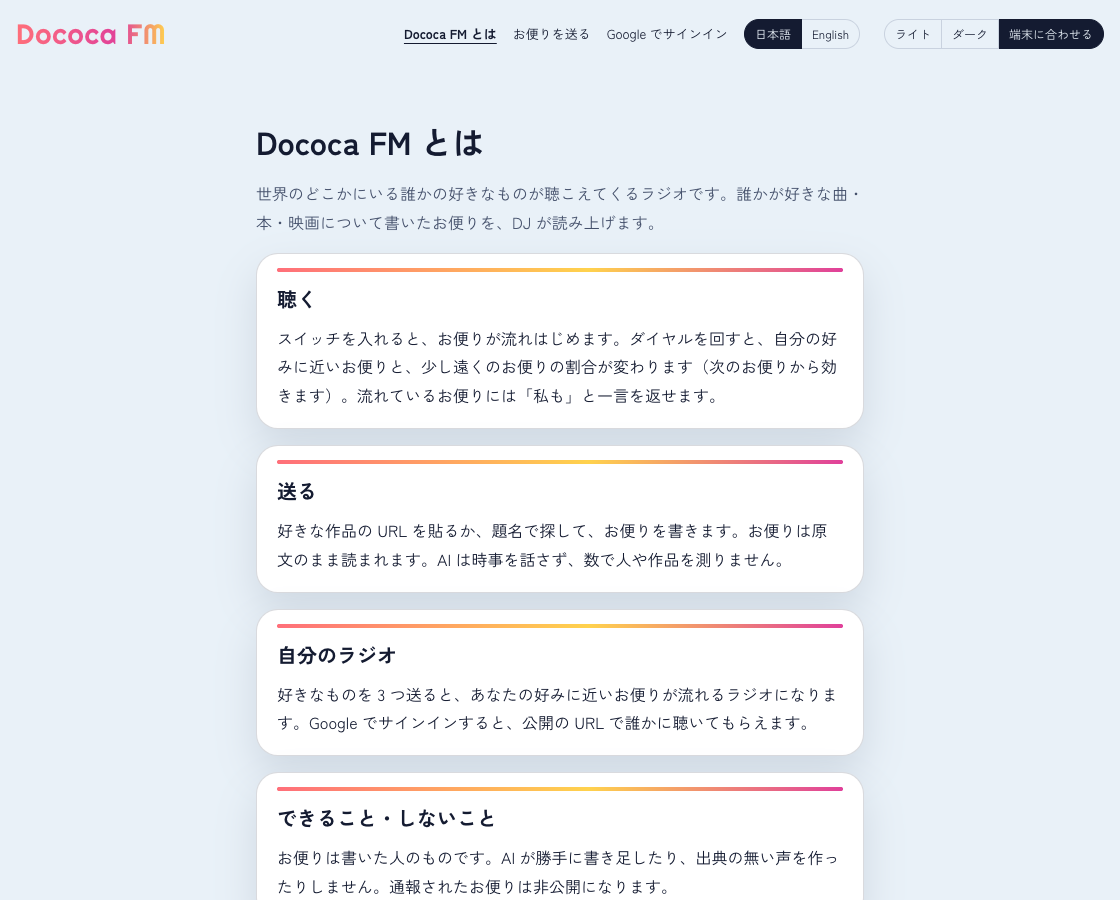
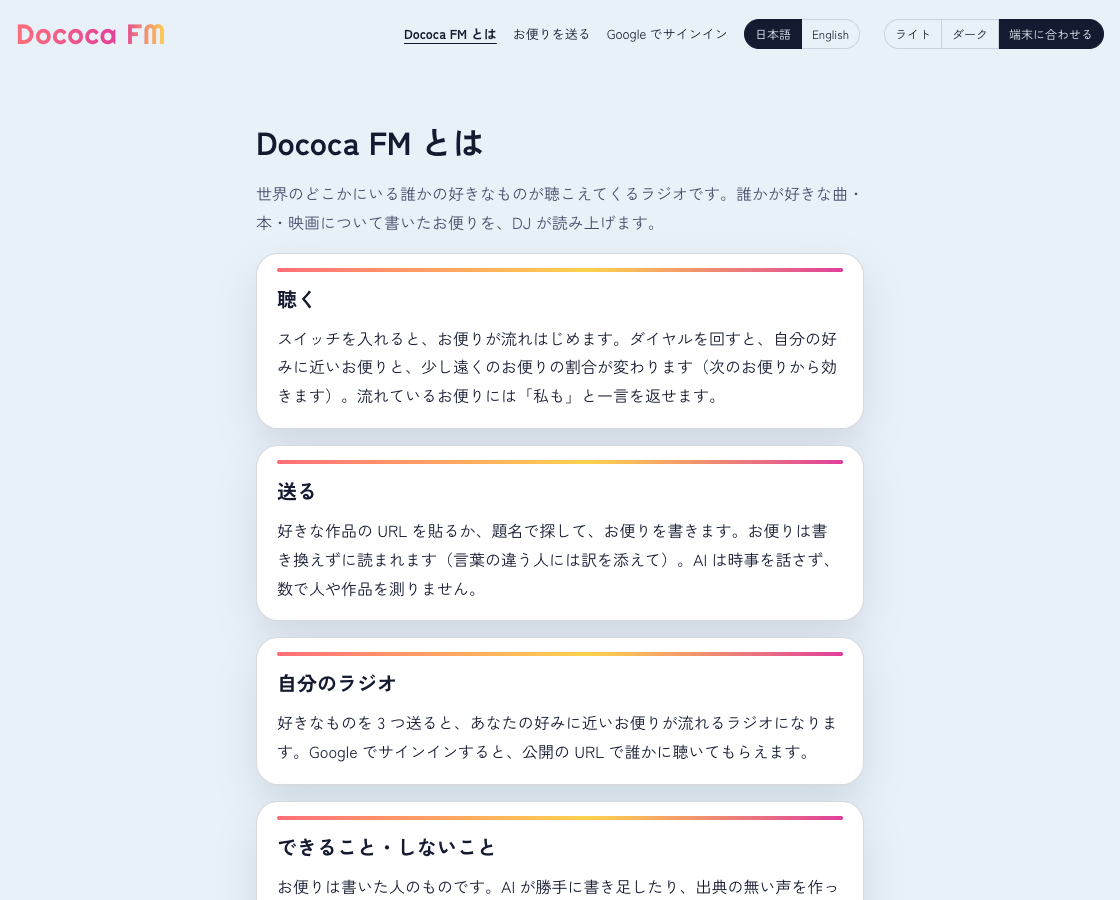
fix: about page wording

Changed region(s): [[0.2188, 0.5911, 0.7812, 0.9956], [0.7188, 0.5911, 0.75, 0.6222]]

diff --git a/src/worker/i18n/en.ts b/src/worker/i18n/en.ts
@@ -243,9 +243,9 @@ export const en: Record<keyof typeof ja, string> = {
   "about.title": "About Dococa FM",
   "about.lead": "Dococa FM is a radio where you hear what someone, somewhere in the world, loves. People write letters about the songs, books and films they love, and a DJ reads them out.",
   "about.listen.title": "Listen",
-  "about.listen.body": "Switch the radio on and the letters start playing. Turn the dial to change how many letters are close to your taste and how many come from a little further away (it takes effect from the next letter). You can answer a letter with a short \"Me too\".",
+  "about.listen.body": "Switch the radio on and the letters start playing. Turn the dial to change how many letters are close to your taste and how many come from a little further away (it takes effect from the next letter). You can answer the letter that is playing with \"Me too\" or a short reply.",
   "about.send.title": "Send",
-  "about.send.body": "Paste the link of a work you love, or search for it by title, then write your letter. It is read out exactly as you wrote it. The AI does not talk about current events, and it never rates people or works with numbers.",
+  "about.send.body": "Paste the link of a work you love, or search for it by title, then write your letter. Letters are read without rewriting; listeners in another language hear a translation alongside. The AI does not talk about current events, and it never rates people or works with numbers.",
   "about.mine.title": "Your own radio",
   "about.mine.body": "Send three things you love and you get a radio that plays letters close to your taste. Sign in with Google and others can listen to it at a public URL.",
   "about.rules.title": "What we do and don't do",

diff --git a/src/worker/i18n/ja.ts b/src/worker/i18n/ja.ts
@@ -242,7 +242,7 @@ export const ja = {
   "about.listen.title": "聴く",
   "about.listen.body": "スイッチを入れると、お便りが流れはじめます。ダイヤルを回すと、自分の好みに近いお便りと、少し遠くのお便りの割合が変わります（次のお便りから効きます）。流れているお便りには「私も」と一言を返せます。",
   "about.send.title": "送る",
-  "about.send.body": "好きな作品の URL を貼るか、題名で探して、お便りを書きます。お便りは原文のまま読まれます。AI は時事を話さず、数で人や作品を測りません。",
+  "about.send.body": "好きな作品の URL を貼るか、題名で探して、お便りを書きます。お便りは書き換えずに読まれます（言葉の違う人には訳を添えて）。AI は時事を話さず、数で人や作品を測りません。",
   "about.mine.title": "自分のラジオ",
   "about.mine.body": "好きなものを 3 つ送ると、あなたの好みに近いお便りが流れるラジオになります。Google でサインインすると、公開の URL で誰かに聴いてもらえます。",
   "about.rules.title": "できること・しないこと",

diff --git a/src/views/layout.tsx b/src/views/layout.tsx
@@ -12,7 +12,7 @@ type LayoutProps = { title: string; children?: Child; /** The client entry to lo
 } & (
   /** With the session's listener the header needs the current path, so its sign-in link comes back here. */
   | { listener: Listener; path: string }
-  /** Without one the header shows only the wordmark. */
+  /** Without one the header shows the wordmark, the About link and the theme toggle. */
   | { listener?: undefined; path?: undefined }
 );
 
@@ -39,7 +39,8 @@ function SiteHeader({ listener, path, lang }: { listener?: Listener; path?: stri
       <nav>
         <a href="/about" aria-current={path === "/about" ? "page" : undefined}>{t("about.link")}</a>
         {listener && <a href="/put">{t("home.put")}</a>}
-        {listener && (signedIn ? (
+        {listener &&
+          (signedIn ? (
             <>
               <a href="/me">{t("me.title")}</a>
               <span class="site-user">{t("signin.as", { name: listener.displayName })}</span>

diff --git a/public/app.css b/public/app.css
@@ -1138,26 +1138,12 @@ button:disabled,
   color: var(--ink-2);
 }
 
-/* The about page: a lead and four panels, set like the send page. */
-.about {
-  display: grid;
-  gap: var(--sp-4);
-}
-
-.about h1 {
-  margin-bottom: 0;
-}
-
+/* The about page: a lead and four panels, set like the send page (shared rules sit with .put below). */
 .about-lead {
   margin: 0;
   color: var(--ink-2);
   font-size: var(--fs-16);
   line-height: 1.8;
-}
-
-.about .panel h2 {
-  margin: 0 0 var(--sp-3);
-  font-size: var(--fs-20);
 }
 
 .about .panel p {
@@ -1172,16 +1158,19 @@ button:disabled,
 }
 
 /* The send page: three panels (choose the work, write the letter, the bookmarklet). */
-.put {
+.put,
+.about {
   display: grid;
   gap: var(--sp-4);
 }
 
-.put h1 {
+.put h1,
+.about h1 {
   margin-bottom: 0;
 }
 
-.put .panel h2 {
+.put .panel h2,
+.about .panel h2 {
   margin: 0 0 var(--sp-3);
   font-size: var(--fs-20);
 }
